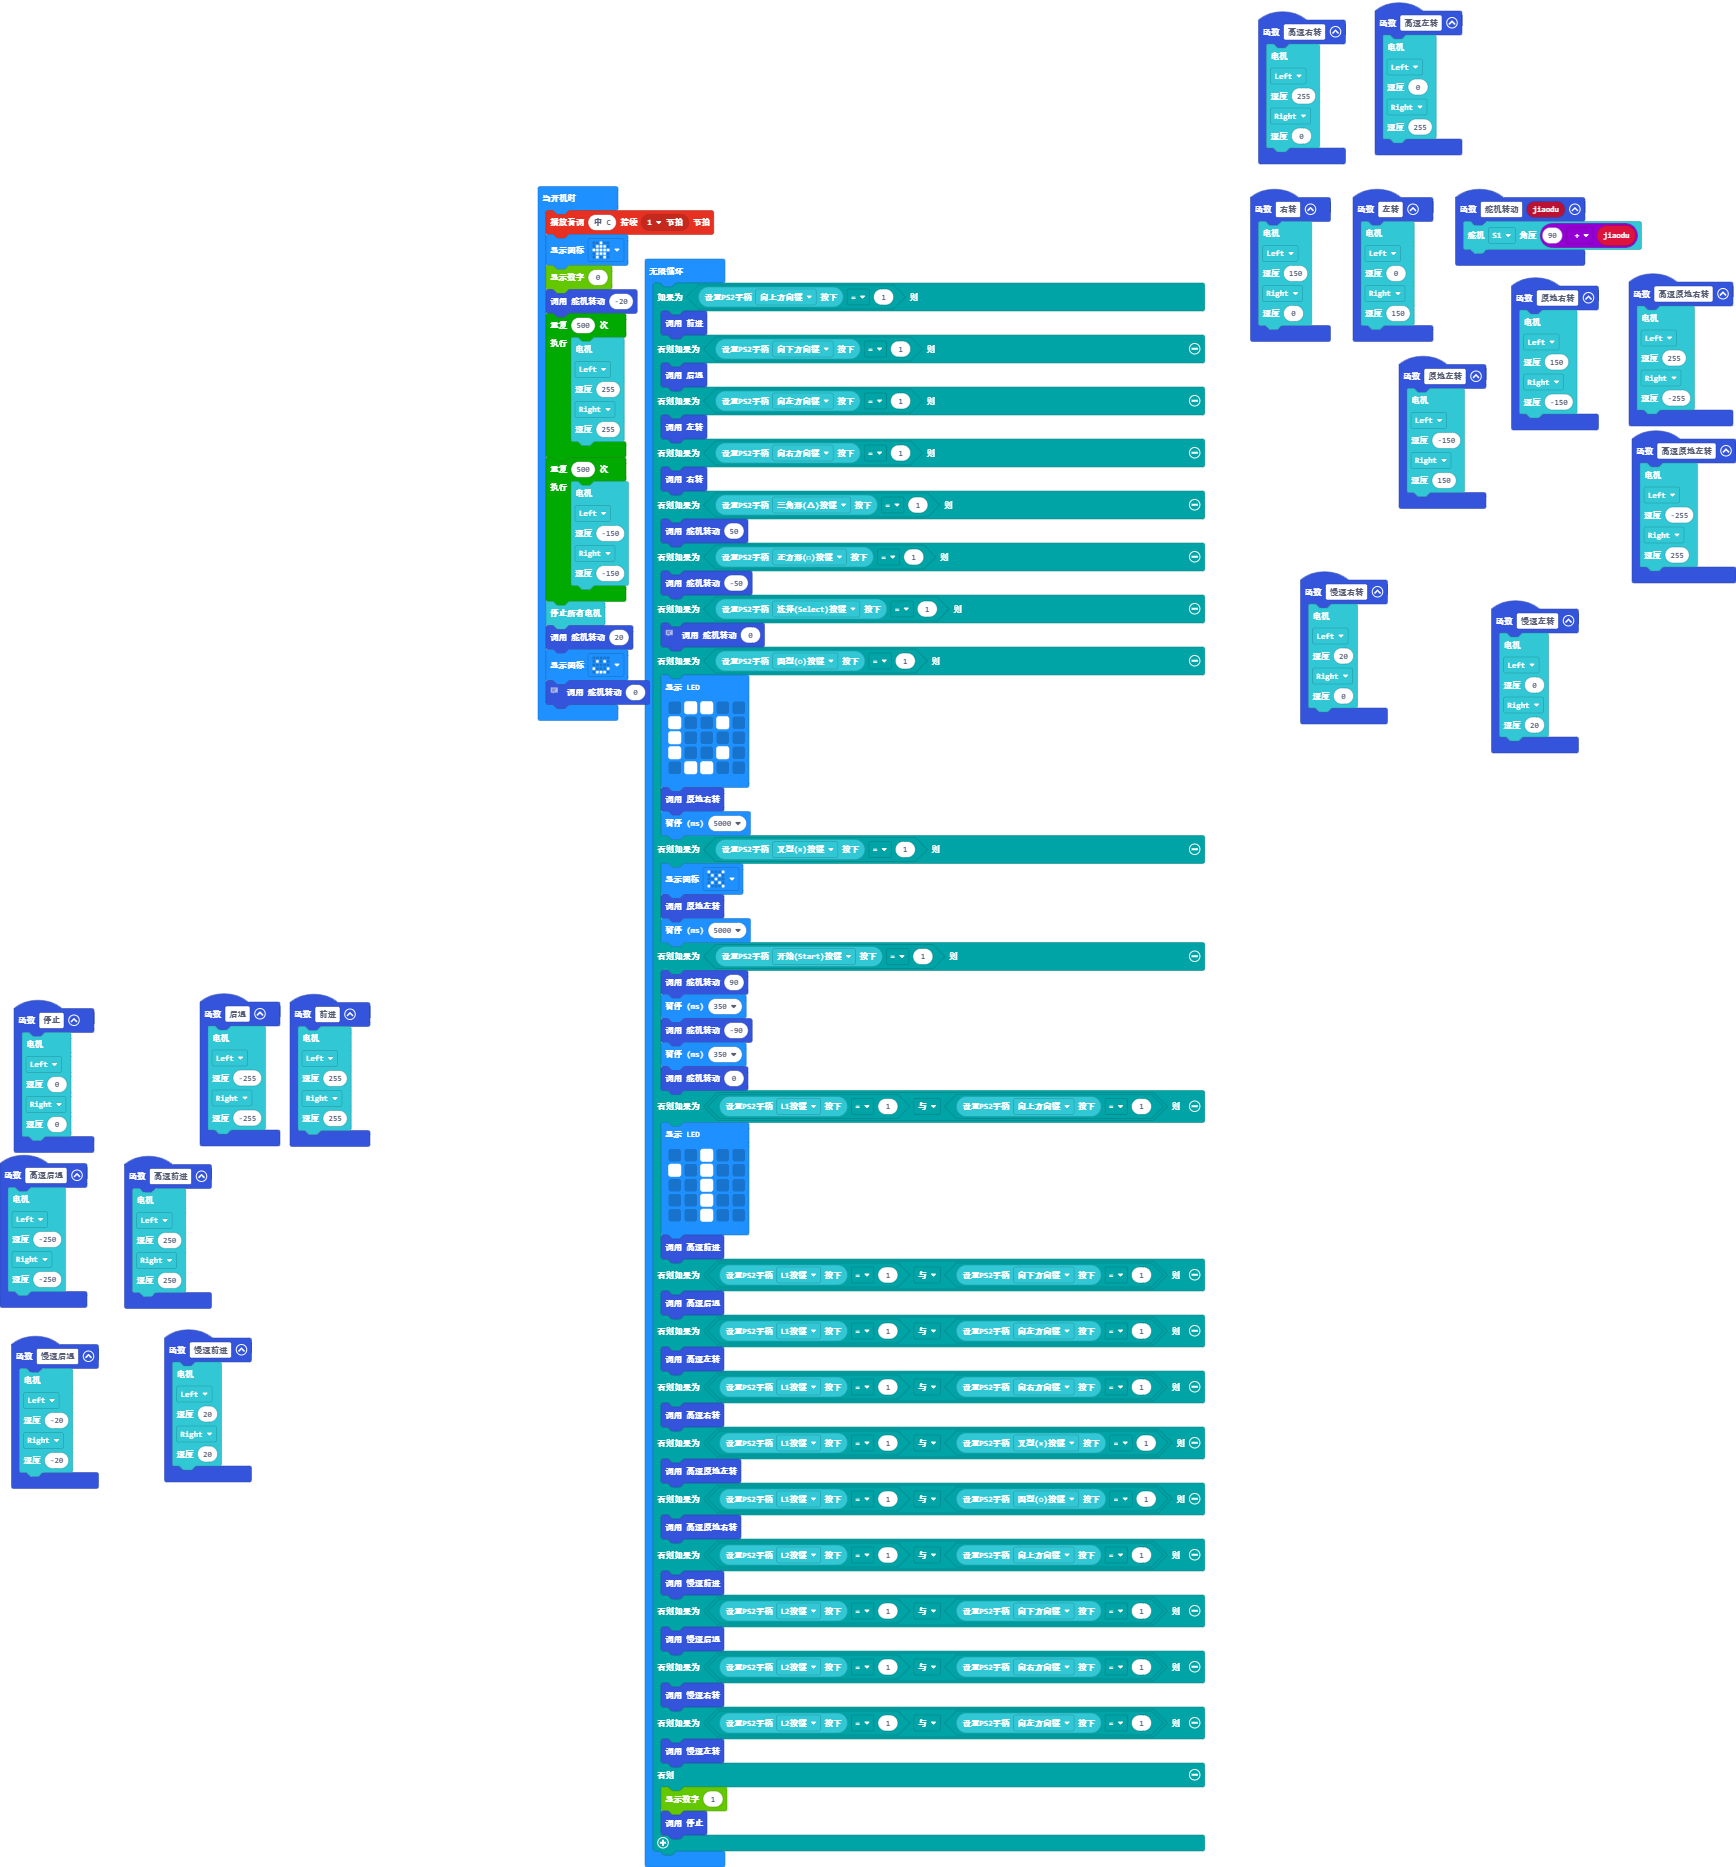
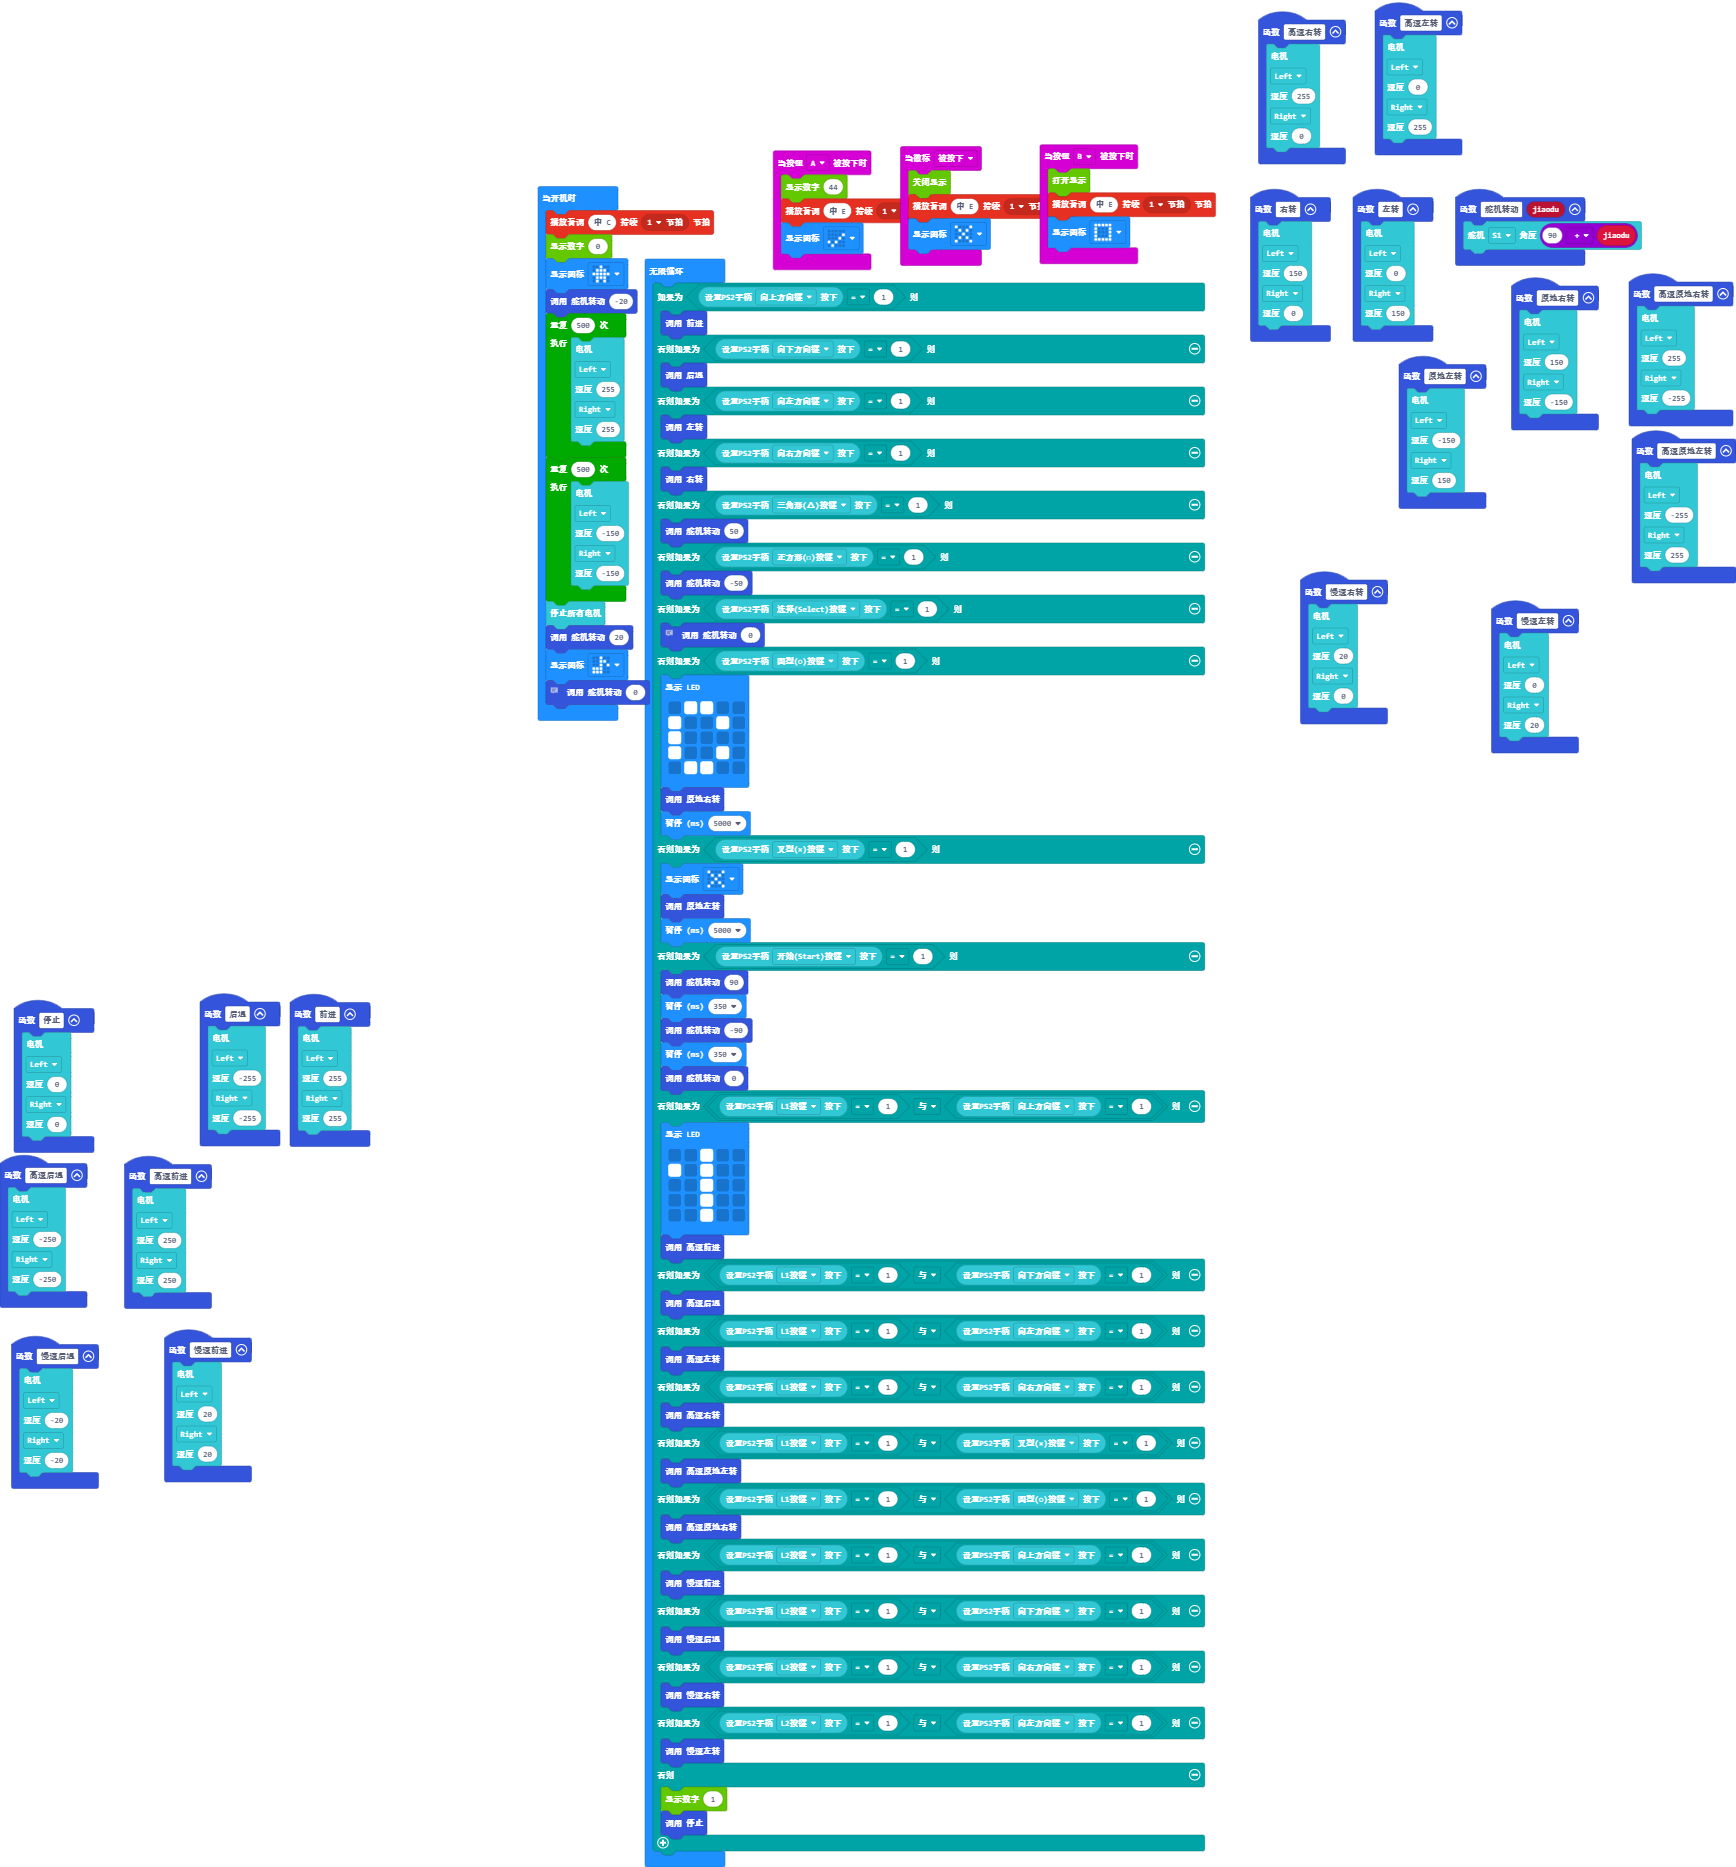
增加ab键功能

Changed region(s): [[0.4355, 0.0621, 0.7154, 0.1553], [0.3111, 0.1243, 0.3733, 0.1553]]

diff --git a/main.ts b/main.ts
@@ -7,7 +7,9 @@ function 高速前进 () {
     )
 }
 input.onLogoEvent(TouchButtonEvent.Pressed, function () {
-	
+    TM1650.off()
+    music.playTone(330, music.beat(BeatFraction.Whole))
+    basic.showIcon(IconNames.No)
 })
 function 原地右转 () {
     makerobo.MotorRunDual(
@@ -76,6 +78,11 @@ function 高速后退 () {
     -250
     )
 }
+input.onButtonPressed(Button.A, function () {
+    TM1650.showNumber(44)
+    music.playTone(330, music.beat(BeatFraction.Whole))
+    basic.showIcon(IconNames.Yes)
+})
 function 高速右转 () {
     makerobo.MotorRunDual(
     makerobo.Motors.Left,
@@ -124,6 +131,11 @@ function 慢速左转 () {
     20
     )
 }
+input.onButtonPressed(Button.B, function () {
+    TM1650.on()
+    music.playTone(330, music.beat(BeatFraction.Whole))
+    basic.showIcon(IconNames.Square)
+})
 function 慢速后退 () {
     makerobo.MotorRunDual(
     makerobo.Motors.Left,
@@ -141,8 +153,8 @@ function 停止 () {
     )
 }
 music.playTone(262, music.beat(BeatFraction.Whole))
-basic.showIcon(IconNames.House)
 TM1650.showNumber(0)
+basic.showIcon(IconNames.House)
 舵机转动(-20)
 for (let index = 0; index < 500; index++) {
     makerobo.MotorRunDual(
@@ -162,7 +174,7 @@ for (let index = 0; index < 500; index++) {
 }
 makerobo.MotorStopAll()
 舵机转动(20)
-basic.showIcon(IconNames.Happy)
+basic.showIcon(IconNames.EigthNote)
 // 舵机归位
 舵机转动(0)
 basic.forever(function () {
